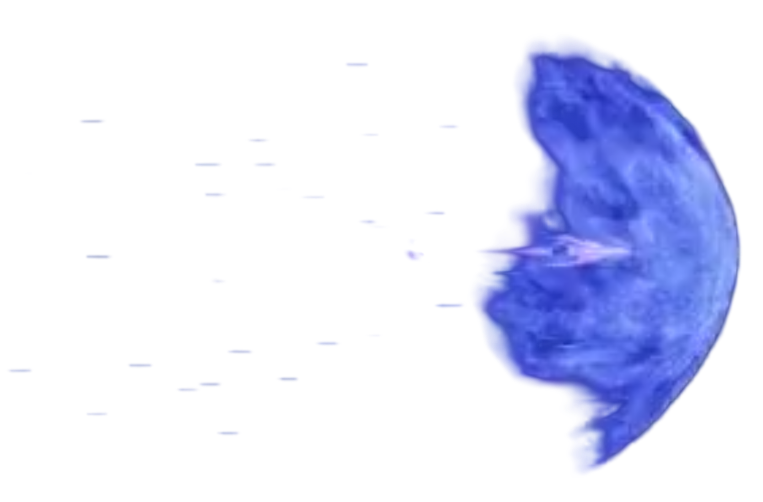
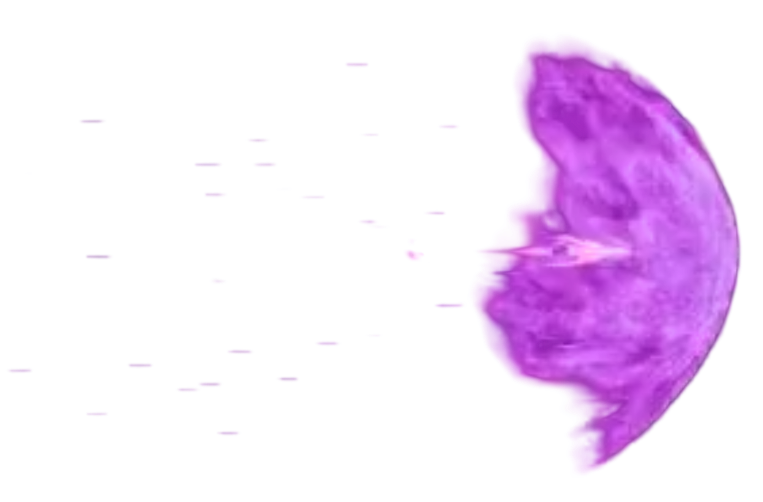
improved the color of the attack

Changed region(s): [[0.5727, 0.0896, 0.9948, 0.9562]]

diff --git a/enemies2.c b/enemies2.c
@@ -91,7 +91,7 @@ int UpdateMimicLogic(Mimic *M, Player *P, float dt, int attackcheck, Rectangle *
         {
             if (P->iframes <= 0)
             {
-                P->health -= M->damage;
+                P->health -= 10;
                 P->iframes = invincibility;
             }
             M->mstate = MIdle;

diff --git a/test.c b/test.c
@@ -37,7 +37,7 @@ int main(void)
         0.0f,      // velocityY
         15,        // damage
         0.0f,      // attackcooldown
-        100900.0f, // health
+        100.0f, // health
         100.0f,    // maxhealth
         .5f,       // iframes
         true,      // onground